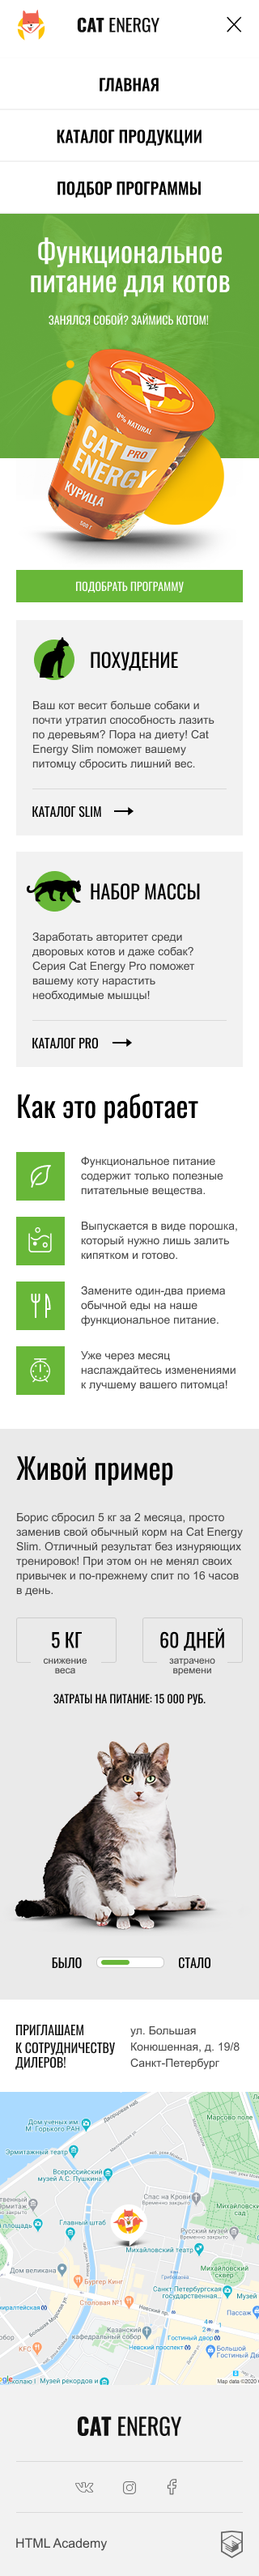
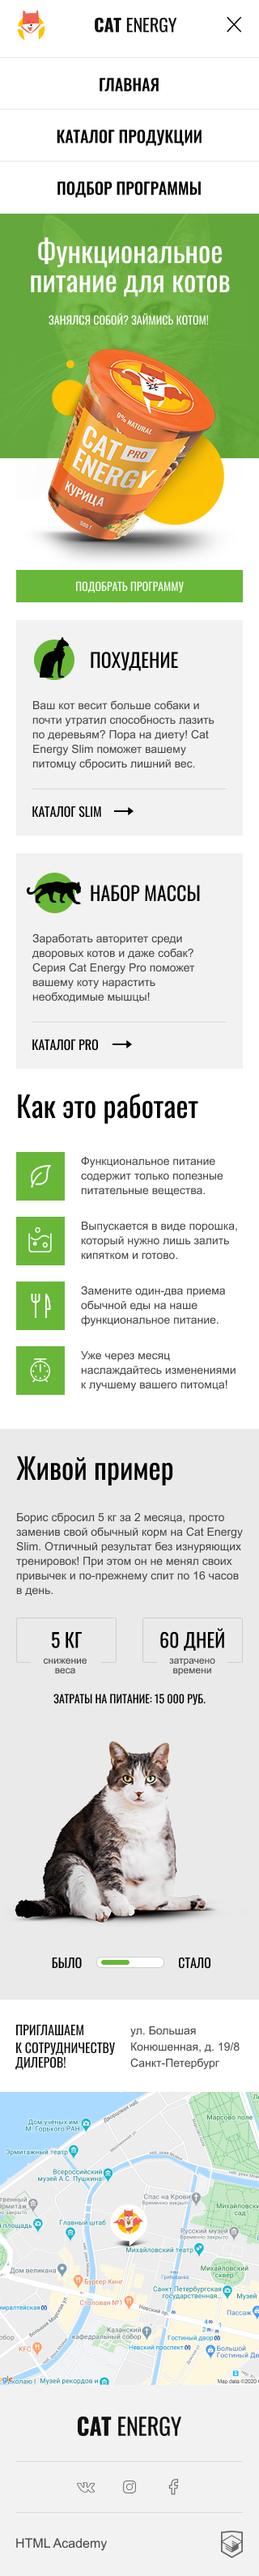
Style: подвал мобильная версия

diff --git a/source/index.html b/source/index.html
@@ -169,7 +169,7 @@
           </div>
         </section>
         <img class="page-footer__map" width="320" height="362" src="img/map.png" alt="г.Санкт-Петербург ул.Большая Конюшенная, д. 19/8">
-        <div class="page-footer__contacts contacts">
+        <div class="page-footer__contacts contacts contacts-wrap">
           <div class="contacts__logo">
             <a href="#">
               <img src="img/logo-title.svg" width="128" height="24" alt="">
@@ -179,24 +179,33 @@
             <ul class="list social__list">
               <li class="social__item">
                 <a class="social__link social__link--vkontakte" href="#">
-                  Мы в Вконтакте
+                  <svg width="23" height="13" fill="none" xmlns="http://www.w3.org/2000/svg">
+                    <path d="M.07 1.993c0-.622.423-.957 1.27-1.006l3.26.018c.22 0 .365.091.438.274.336.915.711 1.704 1.127 2.369.416.664.96 1.43 1.63 2.295.059.11.154.165.285.165a.276.276 0 0 0 .24-.128l.067-.201.021-3.164c0-.22-.062-.366-.186-.44-.124-.073-.353-.127-.689-.164-.263-.037-.394-.17-.394-.402 0-.05.007-.086.022-.11C7.467.706 8.343.31 9.787.31l1.226-.018c.554 0 1.014.116 1.379.347.364.232.547.598.547 1.098v4.151a.562.562 0 0 0 .284.092c.22 0 .409-.11.57-.33 1.604-1.877 2.472-3.133 2.604-3.767a.29.29 0 0 1 .044-.092c.102-.182.27-.34.503-.475.233-.134.438-.226.613-.274a.507.507 0 0 1 .197-.037h3.392l.219.018c.292 0 .518.116.678.348a.63.63 0 0 1 .12.238c.022.085.037.17.044.256.008.085.011.134.011.146v.128c-.102.5-.36 1.033-.777 1.6-.415.567-.944 1.18-1.586 1.838-.642.659-1.044 1.092-1.204 1.299-.131.146-.197.28-.197.402 0 .098.058.208.175.33l3.195 3.365a.939.939 0 0 1 .263.64c0 .28-.131.512-.394.695a1.826 1.826 0 0 1-.941.31l-.372.02h-3.327a.794.794 0 0 0-.087.008.802.802 0 0 1-.088.01c-.32 0-.62-.116-.897-.348-.102-.098-.788-.817-2.057-2.158a1.107 1.107 0 0 0-.307-.238c-.058.195-.135.475-.23.841-.094.366-.164.628-.207.787l-.066.31c-.146.427-.452.684-.92.769l-.306.018H9.743c-1.21 0-2.418-.463-3.622-1.39-1.203-.927-2.287-2.125-3.25-3.594-.963-1.469-1.86-3.18-2.691-5.13a1.254 1.254 0 0 1-.11-.53ZM13.223 6.73a1.66 1.66 0 0 1-.831-.21c-.248-.14-.372-.333-.372-.577V1.737c0-.244-.073-.418-.22-.522-.145-.103-.4-.155-.765-.155l-1.248.036c-.627 0-1.101.092-1.422.275.642.256.963.67.963 1.244v3.218c-.03.305-.175.558-.438.76a1.405 1.405 0 0 1-.875.301c-.438 0-.774-.177-1.007-.53C5.87 4.925 5.024 3.559 4.469 2.267l-.197-.476-2.91-.018c-.19 0-.296.01-.318.028-.022.018-.033.07-.033.155 0 .11.015.226.044.348l.46 1.024C2.74 5.974 4.07 8.058 5.509 9.583c1.437 1.524 2.848 2.286 4.234 2.286h2.189c.088 0 .153-.021.197-.064.044-.043.08-.125.11-.247l.043-.183.416-1.61c.117-.219.219-.365.306-.438a.86.86 0 0 1 .57-.201c.35 0 .707.176 1.072.53l1.86 1.975c.117.159.24.238.372.238h3.611c.438 0 .657-.091.657-.274a.312.312 0 0 0-.066-.183l-3.173-3.31c-.248-.257-.372-.531-.372-.824 0-.292.116-.573.35-.841.19-.244.558-.65 1.105-1.216a28.203 28.203 0 0 0 1.434-1.591c.408-.494.678-.942.81-1.345l.065-.237a.243.243 0 0 1-.022-.12c0-.054-.007-.1-.022-.137H17.82a1.2 1.2 0 0 0-.525.33l-.131.347c-.365.841-1.32 2.14-2.867 3.896a1.672 1.672 0 0 1-1.073.366Z" fill="#666"/>
+                  </svg>
                 </a>
               </li>
               <li class="social__item">
                 <a class="social__link social__link--instagram" href="#">
-                  Мы в Инстаграмм
+                  <svg width="16" height="16" fill="none" xmlns="http://www.w3.org/2000/svg">
+                    <path d="M7.984.063c1.334 0 2.422.015 3.266.046.719.032 1.36.157 1.922.375.541.209 1.01.51 1.406.907.396.395.698.864.906 1.406.22.562.344 1.203.375 1.922.032.843.047 1.932.047 3.265 0 1.334-.015 2.422-.047 3.266-.03.719-.156 1.36-.375 1.922a3.987 3.987 0 0 1-.906 1.406 3.987 3.987 0 0 1-1.406.906c-.563.22-1.203.344-1.922.375-.844.032-1.932.047-3.266.047a91.88 91.88 0 0 1-3.265-.047c-.719-.03-1.36-.156-1.922-.375a3.987 3.987 0 0 1-1.406-.906 3.987 3.987 0 0 1-.907-1.406C.266 12.609.141 11.969.11 11.25a91.735 91.735 0 0 1-.046-3.266c0-1.333.015-2.421.046-3.265.032-.719.157-1.36.375-1.922.209-.542.51-1.01.907-1.406A3.987 3.987 0 0 1 2.797.484C3.359.266 4 .141 4.719.11A91.733 91.733 0 0 1 7.984.063Zm0 1.03c-1.385 0-2.515.016-3.39.048-.563.02-1.084.12-1.563.296a2.853 2.853 0 0 0-1.594 1.594c-.177.48-.276 1-.296 1.563a98.83 98.83 0 0 0-.047 3.39c0 1.386.015 2.516.047 3.391.02.563.12 1.083.296 1.563.313.75.844 1.28 1.594 1.593.48.177 1 .276 1.563.297.875.031 2.005.047 3.39.047 1.386 0 2.516-.016 3.391-.047a5.015 5.015 0 0 0 1.563-.297 2.852 2.852 0 0 0 1.593-1.594c.177-.479.276-1 .297-1.562.031-.875.047-2.005.047-3.39 0-1.386-.016-2.516-.047-3.391a5.015 5.015 0 0 0-.297-1.563 2.853 2.853 0 0 0-1.594-1.594c-.479-.177-1-.276-1.562-.296a98.803 98.803 0 0 0-3.39-.047Zm0 10.063c.875 0 1.623-.31 2.243-.93.62-.62.93-1.367.93-2.242s-.31-1.622-.93-2.242a3.056 3.056 0 0 0-2.243-.93c-.875 0-1.622.31-2.242.93-.62.62-.93 1.367-.93 2.242s.31 1.623.93 2.243c.62.62 1.367.93 2.242.93Zm0-7.234c1.125 0 2.084.396 2.875 1.187.792.792 1.188 1.75 1.188 2.875s-.396 2.084-1.188 2.875c-.791.792-1.75 1.188-2.875 1.188s-2.083-.396-2.875-1.188c-.791-.791-1.187-1.75-1.187-2.875s.396-2.083 1.187-2.875c.792-.791 1.75-1.187 2.875-1.187Zm5.188-.156c0 .26-.094.481-.281.664a.949.949 0 0 1-.688.273.904.904 0 0 1-.664-.273.904.904 0 0 1-.273-.664c0-.271.09-.5.273-.688a.891.891 0 0 1 .664-.281.93.93 0 0 1 .68.289.93.93 0 0 1 .289.68Z" fill="#666"/>
+                  </svg>
                 </a>
               </li>
               <li class="social__item">
                 <a class="social__link social__link--facebook" href="#">
-                  Мы в Фейсбук
+                  <svg width="13" height="20" fill="none" xmlns="http://www.w3.org/2000/svg">
+                    <path d="M11.5.833H8.75A4.63 4.63 0 0 0 5.51 2.15a4.45 4.45 0 0 0-1.343 3.177v2.697h-2.75v3.595h2.75v7.191h3.666v-7.19h2.75l.917-3.596H7.833V5.327a.89.89 0 0 1 .269-.635.926.926 0 0 1 .648-.263h2.75V.833Z" stroke="#666" stroke-width="1.1" stroke-linecap="round" stroke-linejoin="round"/>
+                  </svg>
                 </a>
               </li>
             </ul>
           </div>
           <div class="contacts__copyright copyright">
             <a class="text copyright__link" href="https://htmlacademy.ru/intensive/adaptive">
-              HTML Academy
+              <p>HTML&nbsp;Academy</p>
+              <svg class="copyright__link--img" width="27" height="34" fill="none" xmlns="http://www.w3.org/2000/svg">
+                <path d="M13.643.016 13.5 0 0 1.407v24.606L13.5 34 27 26.013V1.407L13.643.016Zm11.591 25L13.5 31.956 1.766 25.015V14.93l11.685 6.916.02 1.253-8.017-4.743-.011 1.225 8.046 4.809.02 1.286-8.045-4.758-.01 1.226L13.5 26.95l8.124-4.833V16.91l3.62-2.15-.01 10.256Zm0-11.564-3.22 1.88-1.482.875-7.065-4.187-.011 1.225 6.04 3.573-.053.031-.13.076-.86.492-4.986-2.948-.011 1.225 3.936 2.328-.933.61-.021.012-2.971-1.742-.011 1.225 1.947 1.135-1.988 1.186-11.618-6.872 11.638-6.958 11.8 6.834Zm0-1.225L13.44 5.31 1.766 12.22V2.99L13.5 1.764 25.234 2.99v9.237Z" fill="#666"/>
+              </svg>
             </a>
           </div>
         </div>

diff --git a/source/sass/index/page-body/page-footer/contacts/contacts.scss b/source/sass/index/page-body/page-footer/contacts/contacts.scss
@@ -1,9 +1,40 @@
 .page-footer__contacts {
   display: flex;
   flex-direction: column;
+  align-items: center;
 
   @media (min-width: $tablet-width), (min-width: $desktop-width) {
     flex-direction: row;
     justify-content: space-between;
   }
+}
+
+.contacts-wrap {
+  padding: 0 20px;
+}
+
+
+.contacts__logo {
+  width: 100%;
+  text-align: center;
+
+  padding-top: 33px;
+  padding-bottom: 25px;
+
+  border-bottom: 1px solid $grey-D9;
+}
+
+.contacts__social {
+  width: 100%;
+  align-self: center;
+
+  padding-top: 20px;
+  padding-bottom: 18px;
+  border-bottom: 1px solid $grey-D9;
+}
+
+.contacts__copyright {
+  width: 100%;
+  padding-top: 14px;
+  padding-bottom: 14px;
 }

diff --git a/source/sass/index/page-body/page-footer/contacts/copyright/copyright.scss b/source/sass/index/page-body/page-footer/contacts/copyright/copyright.scss
@@ -1,4 +1,13 @@
 .copyright__link {
   font-size: 16px;
   line-height: 18px;
+
+  width: 100%;
+  display: flex;
+  align-items: center;
+  justify-content: center;
+}
+
+.copyright__link p {
+  margin-right: 140px;
 }

diff --git a/source/sass/index/page-body/page-footer/contacts/social/social.scss b/source/sass/index/page-body/page-footer/contacts/social/social.scss
@@ -1,3 +1,12 @@
 .social__list {
   display: flex;
+  justify-content: center;
+}
+
+.social__item {
+  margin-right: 35px;
+}
+
+.social__item:last-child {
+  margin-right: 0;
 }
